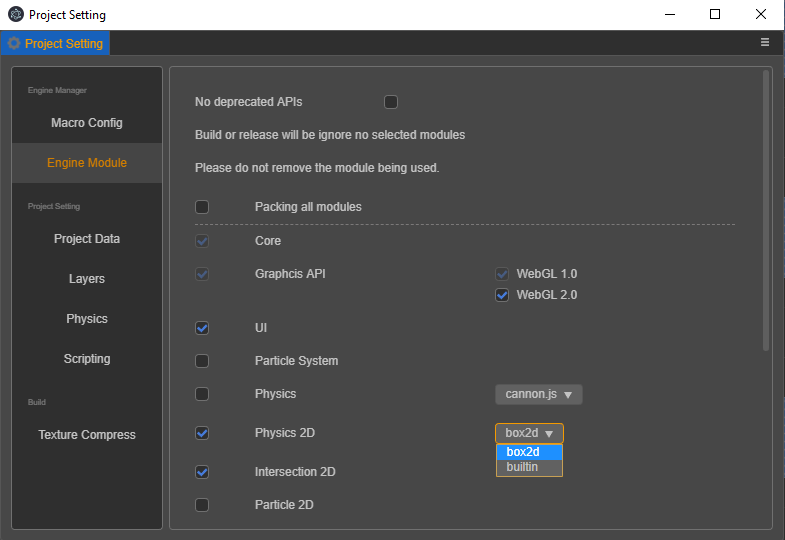
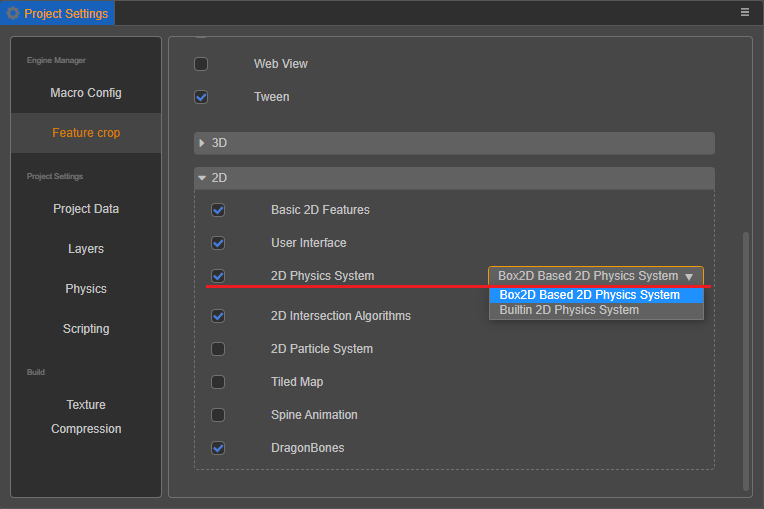
完善部分文档 (#1556)
* 完善部分文档

* Update en/editor/extension/readme.md

diff --git a/zh/editor/extension/contributions-preferences.md b/zh/editor/extension/contributions-preferences.md
@@ -1,7 +1,7 @@
-# 偏好设置
+# 扩展偏好设置面板
 
-编辑器允许每个扩展注册自己的配置，然后在偏好设置面板内显示部分或全部的编辑器配置。
-在这个面板里，修改的是编辑器功能相关的配置。
+编辑器允许每个扩展注册自己的配置，然后在偏好设置面板内显示部分或全部的编辑器配置。在这个面板里，修改的是编辑器功能相关的配置。
+
 如果是项目相关的配置，请移步 [项目设置](./contributions-project.md) 说明。
 
 ## 偏好设置的面板说明
@@ -12,22 +12,20 @@
 
 偏好设置面板分成左右两侧：
 
-左侧显示的是提供配置项目的功能插件的名字。
-右侧是根据配置渲染出来的操作面板。
+- 左侧显示的是提供配置项目的功能插件的名字。
+- 右侧是根据配置渲染出来的操作面板。
 
 面板上的修改，会立即修改到对应的配置项目上。
 
-通常情况下看到的配置都存储在 global 这一层级。
-如果有些配置有需要放到项目里，则可以将鼠标移动到配置条目上，在左侧出现的小图标上选择 “记录到项目”。
-那么这个数据将会被保存到项目里，对其修改不会影响到其他项目。
+通常情况下看到的配置都存储在 global 这一层级。如果有些配置有需要放到项目里，则可以将鼠标移动到配置条目上，在左侧出现的小图标上选择 “记录到项目”。那么这个数据将会被保存到项目里，对其修改不会影响到其他项目。
 
-> **注意**：如果自动渲染的配置会存储在项目里，他左侧的图标会变黄提示。
-
-如果想重新使用全局配置，则点击左侧图标，选择还原到全局配置，这么做将会丢弃项目设置。
-
-> **注意**：只有自动渲染的配置会自动添加图标。如果没有定义 properties，则需要自己在面板上实现图标的变化功能。
+> **注意**：
+> 1. 如果自动渲染的配置存储在项目里，左侧的图标会变黄提示。如果想重新使用全局配置，则点击左侧图标，选择还原到全局配置，这么做将会丢弃项目设置。
+> 2. 只有自动渲染的配置会自动添加图标。如果没有定义 properties，则需要自己在面板上实现图标的变化功能。
 
 另外有一些配置是无法切换全局、本地存储位置的，例如预览场景，必须存储在项目。所以这部分配置应该使用自定义面板。
+
+更多关于 **偏好设置** 面板的介绍，请参考 [偏好设置](../../editor/preferences/index.md) 文档。
 
 ## 注册方式
 
@@ -38,11 +36,10 @@
 
 通用设置直接以选项卡的形式展示，而实验室开关则单独一个选项卡集中展示。
 
-当插件提供的功能比较稳定时建议将配置数据放在通用功能内，
-当插件提供的功能处于开发阶段时建议将功能的开关配置数据放在实验室配置中。
+- 当插件提供的功能比较稳定时建议将配置数据放在通用功能内。
+- 当插件提供的功能处于开发阶段时建议将功能的开关配置数据放在实验室配置中。
 
-我们首先需要在 `contributions.profile.editor` 里定义好配置。
-然后就可以在 `contributions.preferences` 里定义偏好设置里需要显示的数据。
+我们首先需要在 `contributions.profile.editor` 里定义好配置。然后就可以在 `contributions.preferences` 里定义偏好设置里需要显示的数据。
 
 关于如何定义 profile 详细请参看 [Profile](./profile.md)。
 
@@ -137,4 +134,4 @@ interface UIInfo {
 }
 ```
 
-关于如何自定义面板请点击查看[面板的定义](./panel.md)。
+关于如何自定义面板请点击查看 [面板的定义](./panel.md)。

diff --git a/en/physics-2d/physics-2d-joint.md b/en/physics-2d/physics-2d-joint.md
@@ -1,4 +1,4 @@
-# Joint
+# 2D Joint Component
 
 The physics system contains a series of __Joint__ components for linking two rigidbodies. **Joint** components can be used to simulate the interaction between real objects, such as __hinges__, __pistons__, __ropes__, __wheels__, __pulleys__, __motor vehicles__, __chains__ and so on. Learning how to use joint components can effectively help create a truly interesting scene.
 
@@ -6,22 +6,25 @@ The physics system contains a series of __Joint__ components for linking two rig
 
 The following joints are available in the physics system:
 
-- __Distance Joint__ - The anchors of two rigidbodies at both ends of the joint will keep a certain distance.
-- __Fixed Joint__ - Hold two points on two objects together according to their initial angles of view.
-- __Hinge Joint__ - Think of it as a hinge or a nail, where the rigid body rotates around a common point.
-- __Relative Joint__ - Control the relative motion between two rigid bodies
-- __Slider Joint__ - The angle between two rigid body positions is fixed, and they can only slide in one specified axis.
-- __Spring Joint__ - Connects objects at both ends of the joint like a spring.
-- __Wheel Joint__ - Consist of Revolute and Prismatic joint, used to simulate motor vehicle wheels.
+- __DistanceJoint2D__: The anchors of two rigidbodies at both ends of the joint will keep a certain distance.
+- __FixedJoint2D__: Hold two points on two objects together according to their initial angles of view.
+- __HingeJoint2D__: Think of it as a hinge or a nail, where the rigid body rotates around a common point.
+- __MouseJoint2D__: When dragging a rigid body with the mouse, the rigid body will move with the mouse.
+- __RelativeJoint2D__: Control the relative motion between two rigid bodies
+- __SliderJoint2D__: The angle between two rigid body positions is fixed, and they can only slide in one specified axis.
+- __SpringJoint2D__: Connects objects at both ends of the joint like a spring.
+- __WheelJoint2D__: Consist of Revolute and Prismatic joint, used to simulate motor vehicle wheels.
+
+For information on using each Joint component, please refer to the [Joints example case](https://github.com/cocos-creator/test-cases-3d/tree/v3.0/assets/cases/dragonbones) for details.
 
 ## Common properties of joints
 
 Although each joint has a different behavior, they have some common properties.
 
-- __connectedBody__ - the rigidbody connected on the other end of the joint.
-- __anchor__ - the anchor of the rigidbody on the same node of the joint.
-- __connectedAnchor__ - the anchor of the rigidbody connected at the other end of the joint
-- __collideConnected__ - whether the rigidbody at both ends of the joint can collide with each other
+- __connectedBody__: the rigidbody connected on the other end of the joint.
+- __anchor__: the anchor of the rigidbody on the same node of the joint.
+- __connectedAnchor__: the anchor of the rigidbody connected at the other end of the joint
+- __collideConnected__: whether the rigidbody at both ends of the joint can collide with each other
 
 Each joint need to link two rigidbodies to work. The one on the same node of the joint and the one on another node, which will be assigned to **connectedBody** property. Usually, each rigid body chooses a location around itself as an anchor point. Depending on the type of joint component, the anchor point determines the center of rotation of the object, or a coordinate point to hold a certain distance, etc.
 

diff --git a/zh/engine/event/event-emit.md b/zh/engine/event/event-emit.md
@@ -103,14 +103,14 @@ export class Example extends Component {
 
 上文提到了 `dispatchEvent` 方法，通过该方法派发的事件，会进入事件派发阶段。在 Cocos Creator 的事件派发系统中，我们采用冒泡派发的方式。冒泡派发会将事件从事件发起节点，不断地向上传递给它的父级节点，直到到达根节点或者在某个节点的响应函数中做了中断处理 `event.propagationStopped = true`。
 
-在 v3.0 当中，我们移除了 `Event.EventCustom` 类，如果你需要派发自定义事件，需要实现一个自定义的事件类，该类继承自 `Event` 类，如：
+在 v3.0 中，我们移除了 `Event.EventCustom` 类，如果要派发自定义事件，需要先实现一个自定义的事件类，该类继承自 `Event` 类，例如：
 
 ```ts
-// 注：Event 由 cc 模块导入
+// Event 由 cc 模块导入
 import { Event } from 'cc';
 
 class MyEvent extends Event {
-    constructor(name: string, bubbles?: boolean, detail?: any){
+    constructor(name: string, bubbles?: boolean, detail?: any) {
         super(name, bubbles);
         this.detail = detail;
     }
@@ -120,7 +120,7 @@ class MyEvent extends Event {
 
 ![bubble-event](bubble-event.png)
 
-如上图所示，当我们从节点 c 发送事件 `“foobar”`，倘若节点 a，b 均做了 `“foobar”` 事件的监听，则事件会经由 c 依次传递给 b，a 节点。如：
+以上图为例，当我们从节点 c 发送事件 `“foobar”`，倘若节点 a，b 均做了 `“foobar”` 事件的监听，则事件会经由 c 依次传递给 b，a 节点。如：
 
 ```ts
 // 节点 c 的组件脚本中
@@ -136,7 +136,7 @@ this.node.on('foobar', (event: MyEvent) => {
 });
 ```
 
-**注意**：在发送用户自定义事件的时候，请不要直接创建 `cc` 内的 `Event` 对象，因为它是一个抽象类。
+> **注意**：在发送用户自定义事件的时候，请不要直接创建 `cc` 内的 `Event` 对象，因为它是一个抽象类。
 
 ## 事件对象
 

diff --git a/zh/editor/extension/contributions-project.md b/zh/editor/extension/contributions-project.md
@@ -1,27 +1,25 @@
-# 项目设置
+# 扩展项目设置面板
 
-项目设置里存放的是和项目运行相关的配置。
-这部分配置允许进入版本管理，多人共享配置。
+[项目设置](../../editor/project/index.md) 里存放的是和项目运行相关的配置。这部分配置允许进入版本管理，多人共享配置。
 
 例如构建的模块配置、项目内 layers 的配置。这部分配置如果不同步可能造成不同机器上的运行效果不一致。
 
-> **注意**：项目设置里配置的数据，都应该存放在 `project` 位置。
-
-如果是编辑器相关的配置，请移步 [“编辑器设置”](./contributions-preferences.md) 说明。
+如果是编辑器相关的配置，请移步至 [扩展偏好设置](./contributions-preferences.md) 文档。
 
 ## 面板简介
 
 项目设置分成左右两部分:
 
-左侧是功能模块内部的功能选项卡
-右侧则是配置的修改界面
+- 左侧是功能模块内部的功能选项卡
+- 右侧则是配置的修改界面
 
-项目设置允许一个功能插件注册多个选项卡，所以左侧选项卡上会有一行小字，标示后续几个选项卡属于哪一个功能。
+项目设置允许一个功能插件注册多个选项卡，所以左侧选项卡上会有一行小字，标示选项卡属于哪一个功能。
 
 ## 注册方式
 
-我们首先需要在 contributions.profile.project 里定义好配置。
-然后就可以在 contributions.project 里定义项目设置里需要显示的数据。
+我们首先需要在 `contributions.profile.project` 里定义好配置。然后就可以在 `contributions.project` 里定义项目设置里需要显示的数据。
+
+> **注意**：项目设置里配置的数据，都应该存放在 `project` 位置。
 
 ## 注册项目设置数据
 

diff --git a/en/physics-2d/physics-2d.md b/en/physics-2d/physics-2d.md
@@ -2,18 +2,18 @@
 
 __Cocos Creator 3.0__ supports the built-in lightweight builtin physics system and the powerful __Box2D__ physics system. For simpler physics calculations, we recommend that users use the built-in physics module, which avoids the runtime overhead of loading large __Box2D__ physics modules and building physics worlds. The __Box2D__ physics module provides a more complete interaction with the interface and pre-defined components such as rigid bodies and joints.
 
-Choose the physics module that suits your needs, and switch the physics module you use through the **Project Setting/Engine Module** settings.
+Choose the physics module that suits your needs, and switch the physics module you use through the **Project -> Project Setting -> Feature Crop** settings.
 
 ![Module Setup](./image/module.png)
 
 ## Details
 
-- [Physics System](./physics-2d-system.md)
-- [Rigid Body](./physics-2d-rigid-body.md)
-- [Collision Components](./physics-2d-collider.md)
-- [Contact Callback](./physics-2d-contact-callback.md)
-- [Physics Joints](./physics-2d-joint.md)
+- [2D Physics System](./physics-2d-system.md)
+- [2D Rigid Body](./physics-2d-rigid-body.md)
+- [2D Collision Components](./physics-2d-collider.md)
+- [2D Contact Callback](./physics-2d-contact-callback.md)
+- [2D Physics Joints](./physics-2d-joint.md)
 
 ## Physics 2D Examples
 
-Examples are available on [GitHub](https://github.com/cocos-creator/physics-samples/tree/v3.0/2d).
+Examples are available on [physics-samples](https://github.com/cocos-creator/physics-samples/tree/v3.0/2d).

diff --git a/zh/SUMMARY.md b/zh/SUMMARY.md
@@ -23,7 +23,8 @@
     - [快速上手：制作第一个游戏](getting-started/first-game/index.md)
     - [获取帮助和支持](getting-started/support.md)
     - [注意事项](getting-started/attention/index.md)
-- [Cocos Creator 3.0 升级指南](release-notes/upgrade-guide-v3.0.md)
+- [升级指南](release-notes/index.md)
+    - [Cocos Creator 3.0 升级指南](release-notes/upgrade-guide-v3.0.md)
 
 ## 编辑器手册
 
@@ -118,7 +119,7 @@
     - [动画剪辑](engine/animation/animation-clip.md)
     - [动画状态](engine/animation/animation-state.md)
     - [骨骼动画](engine/animation/skeletal-animation.md)
-    - [骨骼贴图布局设置](editor/project/joints-texture-layout.md)
+    - [骨骼贴图布局设置](editor/project/joint-texture-layout.md)
 - [缓动](tween/index.md)
 
 - [物理](physics/physics.md)
@@ -278,8 +279,8 @@
         - [场景脚本](editor/extension/scene-script.md)
         - [扩展主菜单](editor/extension/contributions-menu.md)
         - [扩展资源管理器面板](editor/assets/extension.md)
-        - [扩展项目设置](editor/contributions-project.md)
-        - [扩展偏好设置](editor/extension/contributions-preferences.md)
+        - [扩展项目设置面板](editor/extension/contributions-project.md)
+        - [扩展偏好设置面板](editor/extension/contributions-preferences.md)
     - [基础功能](editor/extension/basic.md)
         - [插件系统](editor/extension/package.md)
         - [消息系统](editor/extension/messages.md)

diff --git a/en/SUMMARY.md b/en/SUMMARY.md
@@ -10,7 +10,8 @@
     - [Quick Start: First Game](getting-started/first-game/index.md)
     - [Support](getting-started/support.md)
     - [Caution!](getting-started/attention/index.md)
-- [Cocos Creator 3.0 Preview Upgrade Guide](release-notes/upgrade-guide-v3.0.md)
+- [Upgrade Guide](release-notes/index.md)
+    - [Cocos Creator 3.0 Upgrade Guide](release-notes/upgrade-guide-v3.0.md)
 
 ## Editor Manual
 
@@ -122,6 +123,7 @@
     - [Animation Clips](engine/animation/animation-clip.md)
     - [Animation State](engine/animation/animation-state.md)
     - [Skeletal Animation](engine/animation/skeletal-animation.md)
+    - [Joint Texture Layout Settings](editor/project/joint-texture-layout.md)
 - [Tween](tween/index.md)
 
 - [Physics](physics/physics.md)
@@ -261,6 +263,7 @@
     - [Animation Assets](asset/anim.md)
     - [Spine](asset/spine.md)
     - [DragonBones](asset/dragonbones.md)
+    - [TiledMap](asset/tiledmap.md)
 
 ## Advanced
 
@@ -274,7 +277,8 @@
     - [Contributions](editor/extension/contributions.md)
         - [Message](editor/extension/contributions-messages.md)
         - [Shortcuts](editor/extension/contributions-shortcuts.md)
-        - [Menu](editor/extension/contributions-menu.md)
+        - [Extending the main menu](editor/extension/contributions-menu.md)
+        - [Extending the Assets Panel](editor/assets/extension.md)
     - [Basic](editor/extension/basic.md)
         - [Extension](editor/extension/package.md)
         - [Message](editor/extension/messages.md)

diff --git a/en/engine/animation/skeletal-animation.md b/en/engine/animation/skeletal-animation.md
@@ -64,7 +64,7 @@ Based on the framework of the pre-baked skeletal animation system, the instancin
 
 The fundamental problem here is that the joint texture atlass used by each model in the same drawcall must be the same. If they are not the same, the display effect will be completely messy.
 
-The way to distribute all the animation data used at runtime to each joint texture atlases becomes a project-specific information, thus needs developer's input. See the [joint texture layout panel](../../editor/project/joints-texture-layout.md) documentation for more details on how to configure this.
+The way to distribute all the animation data used at runtime to each joint texture atlases becomes a project-specific information, thus needs developer's input. See the [joint texture layout panel](../../editor/project/joint-texture-layout.md) documentation for more details on how to configure this.
 
 > **Notes**:
 > 1. Instancing is only supported under the pre-baked system. Although we do not strictly prohibit instancing under the real-time calculated system (will only trigger some warnings in the editor), there will be problems with the rendering results. Depending on the asset allocation situation at the time, all the instances could be playing the same clip at best, or more often, completely mad rendering results.

diff --git a/zh/physics-2d/physics-2d.md b/zh/physics-2d/physics-2d.md
@@ -2,17 +2,17 @@
 
 Cocos Creator 3.0 支持内置的轻量 Builtin 物理系统和强大的 Box2D 物理系统。Builtin 物理系统只提供了碰撞检测的功能，对于物理计算较为简单的情况，我们推荐使用 Builtin 物理模块，这样可以避免加载庞大的 Box2D 物理模块并构建物理世界的运行时开销。而 Box2D 物理模块提供了更完善的交互接口和刚体、关节等已经预设好的组件。
 
-你可以根据需要来选择适合自己的物理模块，通过 **项目设置/引擎模块** 切换物理模块的使用。
+你可以根据需要来选择适合自己的物理模块，通过编辑器主菜单中的 **项目 -> 项目设置 -> 功能裁剪** 切换物理模块的使用。
 
 ![模块设置](./image/module.png)
 
 ## 详细介绍
 
-- [物理系统](./physics-2d-system.md)
-- [刚体组件](./physics-2d-rigid-body.md)
-- [碰撞组件](./physics-2d-collider.md)
-- [碰撞回调](./physics-2d-contact-callback.md)
-- [物理关节](./physics-2d-joint.md)
+- [2D 物理系统](./physics-2d-system.md)
+- [2D 刚体组件](./physics-2d-rigid-body.md)
+- [2D 碰撞组件](./physics-2d-collider.md)
+- [2D 碰撞回调](./physics-2d-contact-callback.md)
+- [2D 物理关节](./physics-2d-joint.md)
 
 ## 2D 物理示例
 

diff --git a/en/engine/event/event-emit.md b/en/engine/event/event-emit.md
@@ -103,11 +103,10 @@ export class Example extends Component {
 
 Events launched by the `dispatchEvent` method, mentioned above, would enter the event delivery stage. In __Cocos Creator__'s event delivery system, bubble delivery is used. Bubble delivery will pass the event from the initiating node continually on to its parent node,  until the root node is reached or an interrupt `event.propagationStopped = true` is made in the response function of a node.
 
-In v3.0, we removed the `Event.EventCustom` class. If you need to dispatch custom events, you need to implement a custom event class that inherits from the `Event` class. For example:
-
+In v3.0, we removed the `Event.EventCustom` class. To dispatch custom events, a custom event class that inherits from the `Event` class needs to be implemented first. For example:
 
 ```ts
-// NOTE: import Event from cc module
+// Import "Event" from 'cc' module
 import { Event } from 'cc';
 
 class MyEvent extends Event {
@@ -115,7 +114,7 @@ class MyEvent extends Event {
         super(name, bubbles);
         this.detail = detail;
     }
-    public detail: any = null;  // custom property
+    public detail: any = null;  // Custom property
 }
 ```
 

diff --git a/en/editor/extension/readme.md b/en/editor/extension/readme.md
@@ -6,16 +6,17 @@ This chapter focuses on extending the editor.
 - [Install And Share](./install.md)
 - [Extension Description](./define.md)
 - [Extended Panel](./panel.md)
-  - [Compose Panel](./panel-boot.md)
-  - [Panel Message](./panel-messages.md)
-  - [Communication with the panel](./to-panel-messages.md)
+    - [Compose Panel](./panel-boot.md)
+    - [Panel Message](./panel-messages.md)
+    - [Communication with the panel](./to-panel-messages.md)
 - [Contributions](./contributions.md)
-  - [Message](./contributions-messages.md)
-  - [Shortcuts](./contributions-shortcuts.md)
-  - [Menu](./contributions-menu.md)
+    - [Message](./contributions-messages.md)
+    - [Shortcuts](./contributions-shortcuts.md)
+    - [Extending the main menu](./contributions-menu.md)
+    - [Extending the Assets Panel](../assets/extension.md)
 - [Basic](./basic.md)
-  - [Extension](./package.md)
-  - [Message](./messages.md)
-  - [I18n](./i18n.md)
-  - [Profile](./profile.md)
-  - [Editor UI](./ui.md)
+    - [Extension](./package.md)
+    - [Message](./messages.md)
+    - [I18n](./i18n.md)
+    - [Profile](./profile.md)
+    - [Editor UI](./ui.md)
